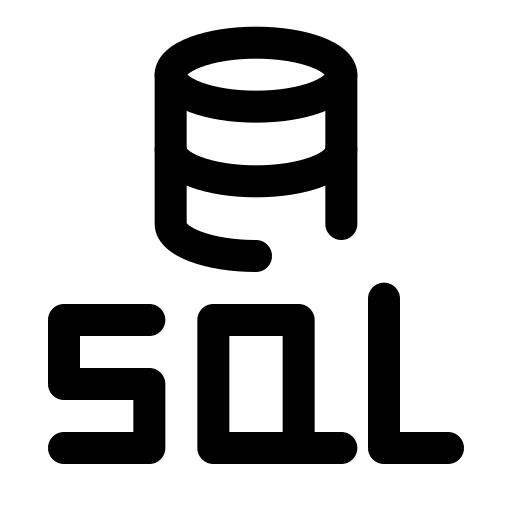
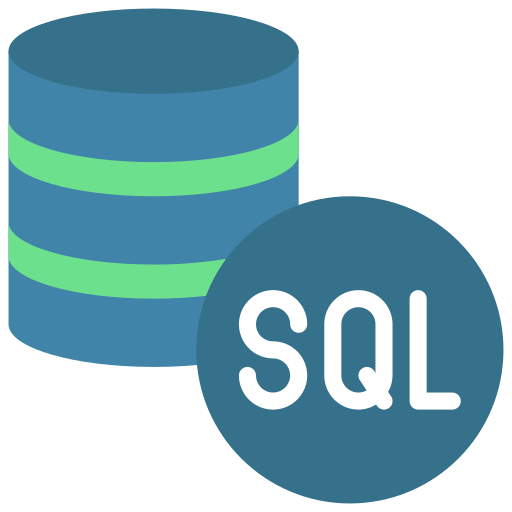
Update site

diff --git a/client/src/data/portfolioData.ts b/client/src/data/portfolioData.ts
@@ -54,12 +54,13 @@ export const portfolioData: PortfolioData = {
   personal: {
     name: "Hadi Yaser",
     title: "Risk & Integrity Analyst",
-    photoUrl: "/images/profile_photo.jpeg",
-    bgUrl: "/images/dubai.webp",
+    photoUrl: "images/hadi_profile.jpeg",
+    // photoUrl: "images/profile_photo.jpeg",
+    bgUrl: "images/dubai.webp",
     email: "[email redacted]",
     phone: "[phone redacted]",
     location: "Dublin, IE (Currently searching for UAE-based roles)",
-    linkedin: "https://linkedin.com",
+    linkedin: "https://linkedin.com/in/hadiys",
     profileSummary: "Results-driven Risk & Integrity Analyst with 5 years' experience in Platform Safety & Integrity Operations at Meta and TikTok. Proven track record in designing AI-powered automation pipelines that reduce manual effort by up to 85%, leading cross-regional fraud investigations uncovering systemic enforcement gaps, and delivering data-driven solutions at scale. Combines postgraduate computing education with IBM-certified data engineering expertise to translate complex integrity challenges into automated, scalable enforcement systems. Strong command of Python, SQL, and agentic AI workflows.",
     punchyOneLiner: "Translating complex integrity challenges into automated, scalable enforcement systems."
   },
@@ -67,16 +68,16 @@ export const portfolioData: PortfolioData = {
     {
       category: "Languages",
       items: [
-        { name: "Python", icon: "/images/python.png" },
-        { name: "SQL", icon: "/images/sql.png" }
+        { name: "Python", icon: "images/python.png" },
+        { name: "SQL", icon: "images/sql.png" }
       ]
     },
     {
       category: "Tools & Technologies",
       items: [
-        { name: "Snowflake", icon: "/images/snowflake.png" },
-        { name: "dbt", icon: "/images/dbt.webp" },
-        { name: "Apache Airflow", icon: "/images/airflow.png" }
+        { name: "Snowflake", icon: "images/snowflake.png" },
+        { name: "dbt", icon: "images/dbt.webp" },
+        { name: "Apache Airflow", icon: "images/airflow.png" }
       ]
     }
   ],

diff --git a/client/src/pages/Home.tsx b/client/src/pages/Home.tsx
@@ -24,21 +24,21 @@ export default function Home() {
           </div>
 
           <p className="text-xl md:text-2xl text-zinc-300 leading-relaxed font-serif italic max-w-2xl">
-            "{personal.punchyOneLiner}"
+            {personal.punchyOneLiner}
           </p>
 
           {/* Company Logos & Platforms (Meta, TikTok) */}
           <div className="flex flex-wrap items-center justify-center md:justify-start gap-8 pt-4 opacity-75">
             <div className="flex items-center gap-3">
               <img 
-                src="/images/meta.png" 
+                src="images/meta.png" 
                 alt="Meta Logo" 
                 className="h-6 md:h-8 object-contain"
               />
             </div>
             <div className="flex items-center gap-3">
               <img 
-                src="/images/tiktok.png" 
+                src="images/tiktok.png" 
                 alt="TikTok Logo" 
                 className="h-6 md:h-8 object-contain"
               />

diff --git a/client/src/App.tsx b/client/src/App.tsx
@@ -56,7 +56,7 @@ export default function App() {
                 {/* Nav Links - Centered, Uppercase, hover-only styles */}
                 <nav className="flex items-center gap-1 sm:gap-2">
                   {(["home", "portfolio", "blog", "contact"] as const).map((sec) => {
-                    const label = sec === "home" ? "HOME (CV)" : sec.toUpperCase();
+                    const label = sec === "home" ? "HOME" : sec.toUpperCase();
                     const isActive = activeSection === sec;
                     return (
                       <button

diff --git a/vite.config.ts b/vite.config.ts
@@ -10,7 +10,7 @@ const __dirname = path.dirname(__filename);
 export default defineConfig({
   // Set this to your repository name (e.g., '/hadi-portfolio/')
   // If you use a custom domain, set this to '/'
-  base: "/hadiys-online-cv/", 
+  base: "/resume-online/", 
   
   plugins: [
     react(), 